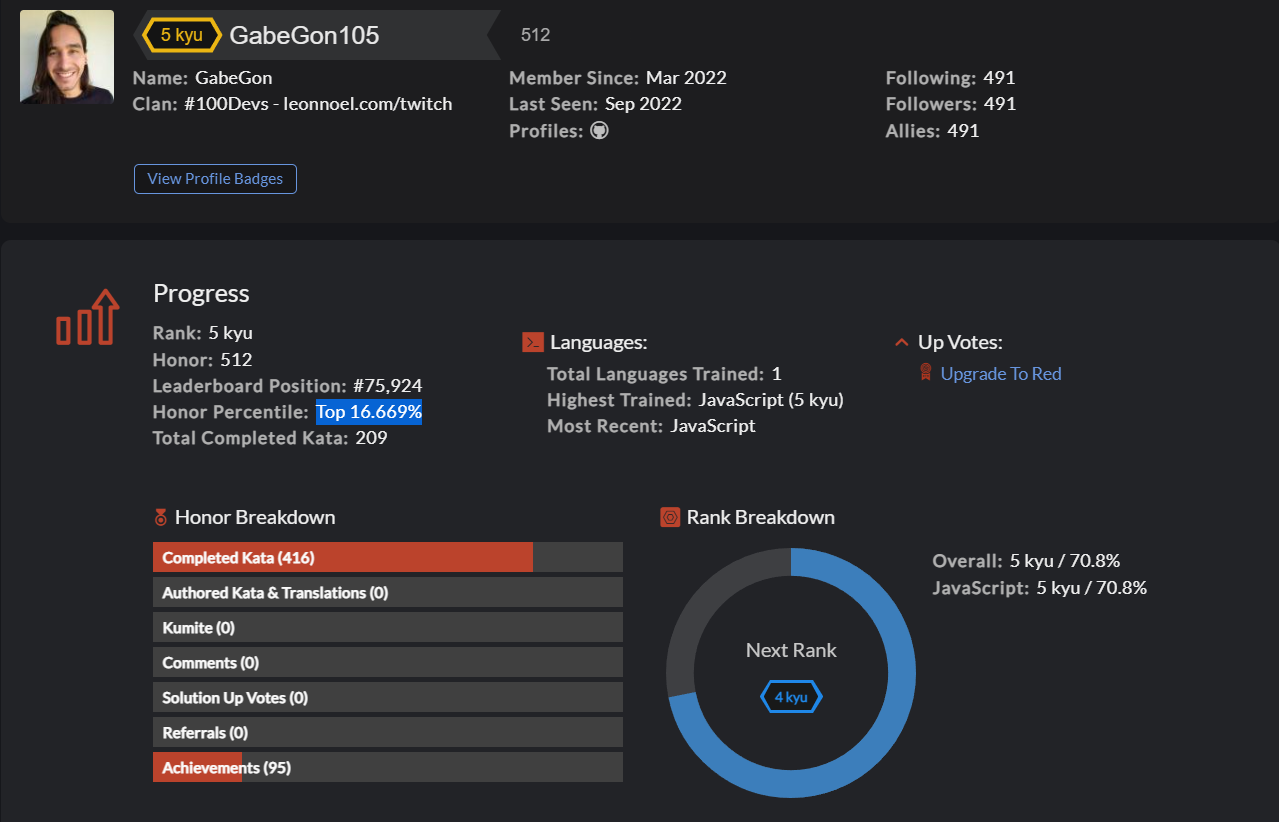
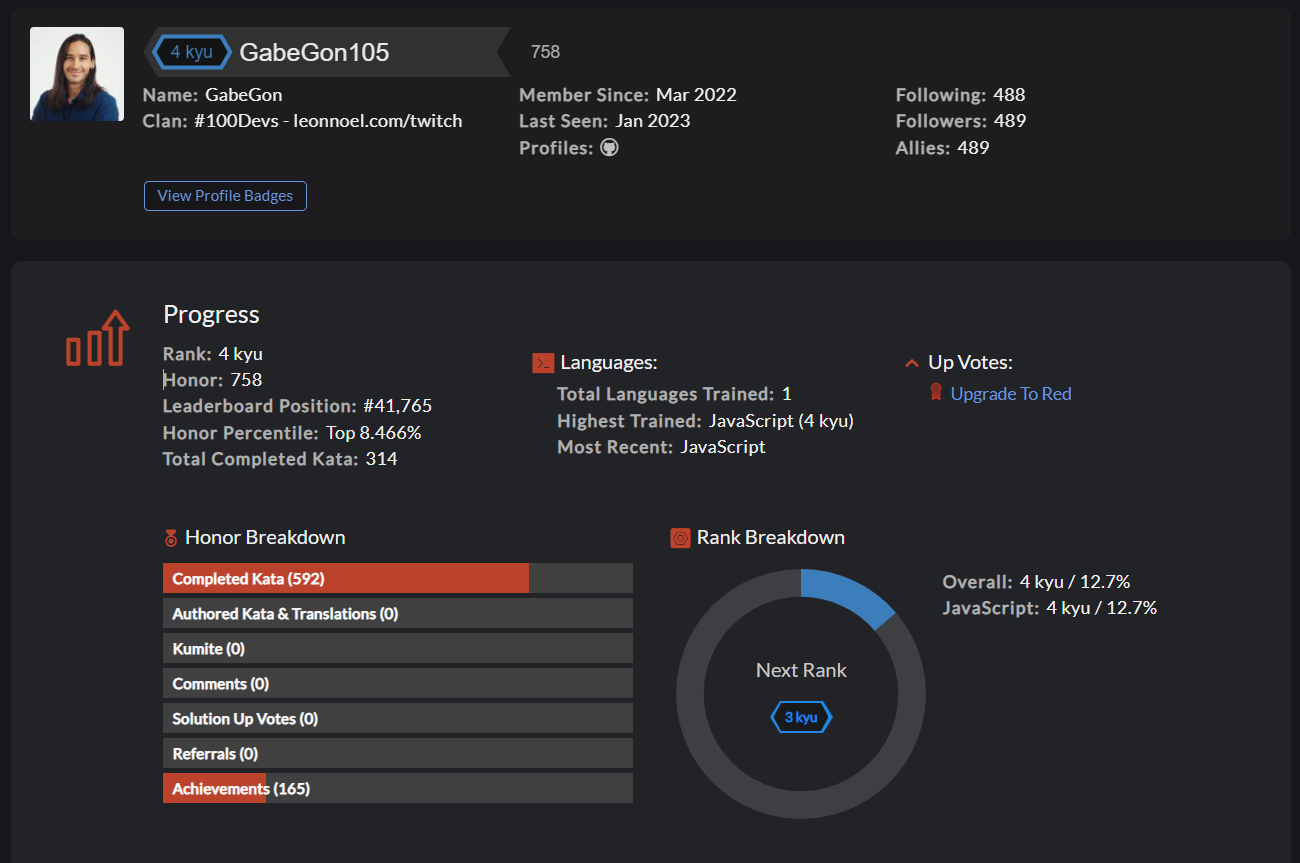
Updated Code Wars stats to January 2023 and README

diff --git a/README.md b/README.md
@@ -1,7 +1,7 @@
 # CodeWars Challenges: [Visit Here](https://www.codewars.com/users/GabeGon105)
 ![GabeGon105 CodeWars stats](https://github.com/GabeGon105/CodingChallenges/blob/master/codeWarsStats.png?raw=true)
 
-A repository filled with codewars challenges (kata). Completed over 200+ challenges and Push solutions every single day.
+A repository filled with codewars challenges (kata). Completed over 300+ challenges and Push solutions every single day.
 
 ## How It's Made:
 
